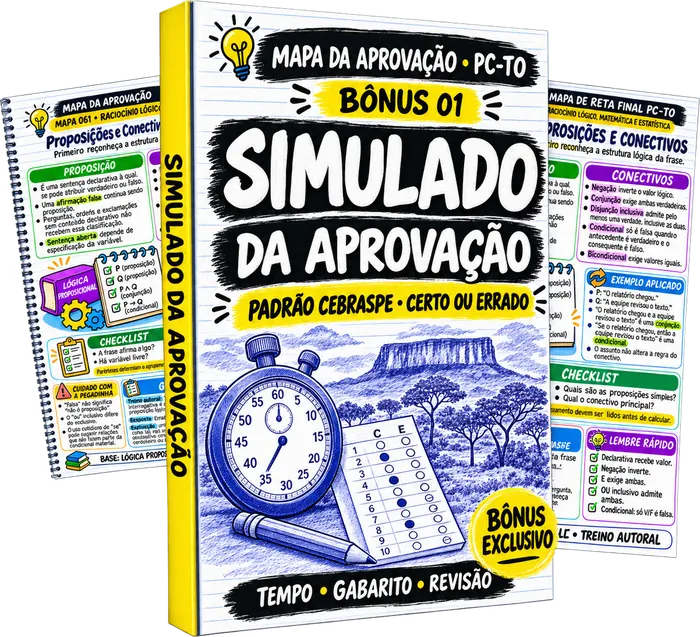
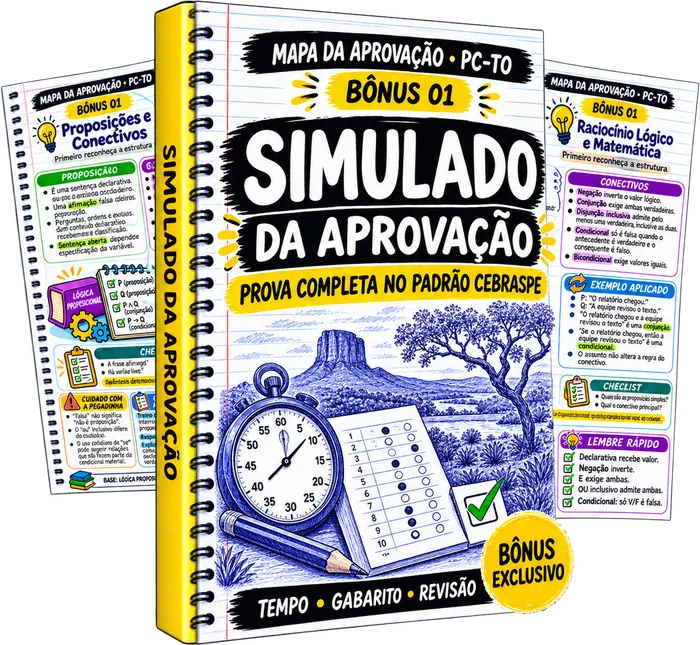
Bônus 01: capa sem citar o formato das alternativas (prova completa no padrão Cebraspe)

diff --git a/index.html b/index.html
@@ -248,7 +248,7 @@
     <div class="bonus-list">
       <div class="bonus-card">
         <span class="bonus-card__tag">BÔNUS 01</span>
-        <img src="/assets/img/bonus-01.webp?v=9" alt="Simulado da Aprovação" loading="lazy" />
+        <img src="/assets/img/bonus-01.webp?v=10" alt="Simulado da Aprovação" loading="lazy" />
         <h3>Simulado da Aprovação</h3>
         <p>A experiência do dia da prova, quantas vezes você quiser, no padrão Cebraspe e com as matérias de investigador de polícia civil.</p>
         <p class="bonus-card__extra">Cada questão comentada leva você direto ao mapa do que errou.</p>
@@ -445,6 +445,6 @@
   </div>
 </footer>
 
-<script src="/assets/js/main.js?v=9"></script>
+<script src="/assets/js/main.js?v=10"></script>
 </body>
 </html>

diff --git a/assets/js/main.js b/assets/js/main.js
@@ -56,7 +56,7 @@ document.addEventListener("DOMContentLoaded", () => {
 
   /* ---------- Stack art (mockup do produto) ---------- */
   document.querySelectorAll(".stack-art").forEach((el) => {
-    el.innerHTML = '<img src="/assets/img/mockup-produto.webp?v=9" alt="Mapa da Aprovação PC-TO: 290 mapas visuais e 4 bônus" loading="lazy" />';
+    el.innerHTML = '<img src="/assets/img/mockup-produto.webp?v=10" alt="Mapa da Aprovação PC-TO: 290 mapas visuais e 4 bônus" loading="lazy" />';
   });
 
   /* ---------- Marquee controls (pause / prev / next) ---------- */

diff --git a/tools/gerar-capas-bonus.py b/tools/gerar-capas-bonus.py
@@ -51,9 +51,9 @@ def sobe(arq, nome):
 
 
 BONUS = {
-    "01": dict(titulo="SIMULADO DA APROVAÇÃO", sub="PADRÃO CEBRASPE · CERTO OU ERRADO",
+    "01": dict(titulo="SIMULADO DA APROVAÇÃO", sub="PROVA COMPLETA NO PADRÃO CEBRASPE",
                faixa="TEMPO • GABARITO • REVISÃO", mapa="012",
-               desenho="a stopwatch, an answer sheet with filled bubbles marked C and E, a pencil and a green check mark"),
+               desenho="a stopwatch, an answer sheet with filled bubbles, a pencil and a green check mark"),
     "02": dict(titulo="REDAÇÃO NOTA MÁXIMA", sub="ESTRUTURA E TEMAS PARA TREINAR",
                faixa="ESTRUTURA • CRITÉRIOS • TEMAS", mapa="002",
                desenho="an open notebook with a handwritten essay, a fountain pen and a correction checklist clipboard"),
